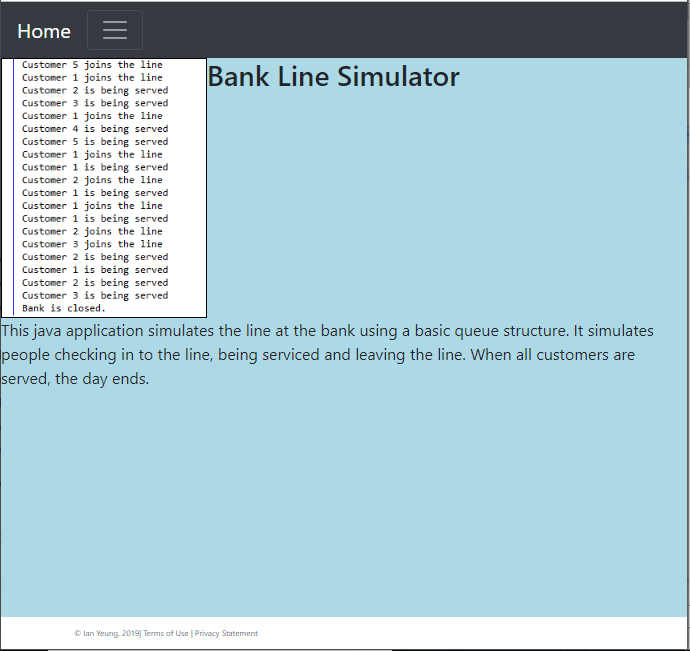
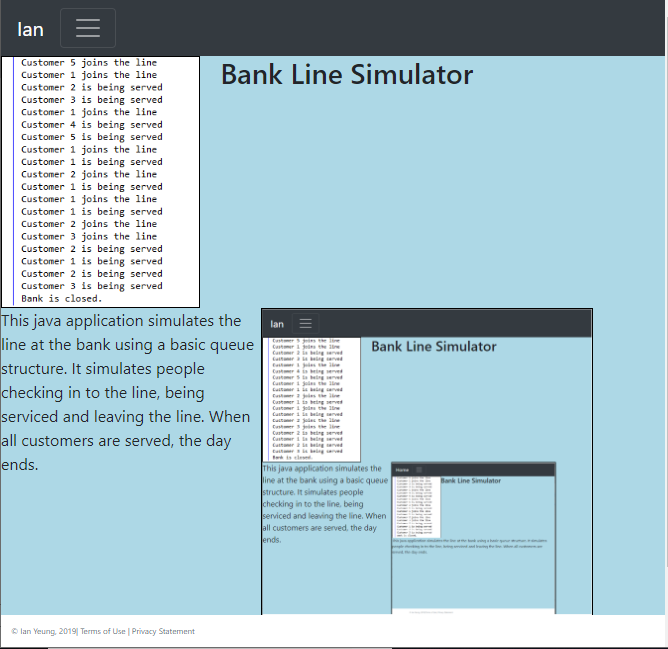
Links have been fixed

diff --git a/about.html b/about.html
@@ -52,17 +52,17 @@
                     </ul>
                 </div>
             </nav>
-
-
-            <h3 class="col-2">About Me</h3>
-            <p>Hello, my name is Ian Yeung. I am a computer science major and a junior undergraduate at NJIT.
-                I am also a member of the NJIT chapter of Association for Computing Machinery. My hobbies and interests involve designing games and game levels.
-                Unfortunately, I have no work experience. This is why I am looking for an internship or co-op opportunity.
-                What I hope to gain from such a position is not only job experience but also to learn about working with a group in a company setting.
-                Computer programming is rarely a one-man job. As a result, collaboration and cooperation is very important.
-                Finding an opportunity to work with people in a large group can only be found in an office setting. I hope you will consider me for this job opportunity.</p>
         </div>
-        <div class="row">
+    </div>
+    <div class="container">
+        <h3 class="col-2">About Me</h3>
+        <p>Hello, my name is Ian Yeung. I am a computer science major and a junior undergraduate at NJIT.
+            I am also a member of the NJIT chapter of Association for Computing Machinery. My hobbies and interests involve designing games and game levels.
+            Unfortunately, I have no work experience. This is why I am looking for an internship or co-op opportunity.
+            What I hope to gain from such a position is not only job experience but also to learn about working with a group in a company setting.
+            Computer programming is rarely a one-man job. As a result, collaboration and cooperation is very important.
+            Finding an opportunity to work with people in a large group can only be found in an office setting. I hope you will consider me for this job opportunity.</p>
+    <div class="row">
             &nbsp;<br/><br/>
 
         </div>

diff --git a/wip.html b/wip.html
@@ -53,17 +53,16 @@
                 </div>
             </nav>
 
-            <img src="Additional%20Files/Unfinished_project_1.PNG">
+            <img src="Additional%20Files/Unfinished_project_1.PNG" alt="RPG Maker Game">
             <h3>Untitled RPG Maker Project</h3>
             <p class="description">A project that I am working on in RPG Maker VX. I am making it for a friend and might move it to MV since that is easier to use.</p>
 
-            <img src="Additional%20Files/unity-logo-100571261-large.jpg">
+            <img src="Additional%20Files/unity-logo-100571261-large.jpg" alt="Unity Logo">
             <h3>Untitled Unity Project</h3>
             <p class="description">I am currently experimenting in Unity to make 3d games. Unity provides better control of game making than RPG Maker but requires more effort.</p>
         </div>
         <div class="row">
             &nbsp;<br/><br/>
-
         </div>
         <footer class="footer page-footer font-small ">
             <div class="container">

diff --git a/projects.html b/projects.html
@@ -52,7 +52,7 @@
         </div>
          <div class="row">
 
-            <img src="Additional%20Files/Project1.PNG" alt="Bank Line Simulator" id="bank">
+             <a href="Additional%20Files/BankSimulator.java"><img src="Additional%20Files/Project1.PNG" alt="Bank Line Simulator" class="imglink"></a>
             <h3>Bank Line Simulator<br></h3>
             <p class="description">This java application simulates the line at the bank using a basic queue structure. It simulates people checking in to the line, being serviced and leaving the line.
                 When all customers are served, the day ends.</p>

diff --git a/resume.html b/resume.html
@@ -53,7 +53,7 @@
                 </div>
             </nav>
 
-            <a href="Additional%20Files/Ian%20Resume%20New.docx"><img src="Additional%20Files/resume_sample.PNG" alt="resume sample"></a>
+            <a href="Additional%20Files/Ian%20Resume%20New.docx"><img src="Additional%20Files/resume_sample.PNG" alt="resume sample" class="imglink"></a>
             <h3>Resume</h3>
             <p class="description">This is my resume. It details my experience in the computer science field. Simply click the link to download it.</p>
 

diff --git a/css/interior.css b/css/interior.css
@@ -18,11 +18,6 @@ img{
     width: 50%;
     float: left;
 }
-#bank{
-    height: 30%;
-    width: 30%;
-    float: left;
-}
 p{
     height: 3px;
     width: 260px;
@@ -33,4 +28,9 @@ h3{
     float: right;
     padding-left: 20px;
     margin-right: 20px;
+}
+.imglink{
+    height: 300px;
+    width: 300px;
+    float: left;
 }
